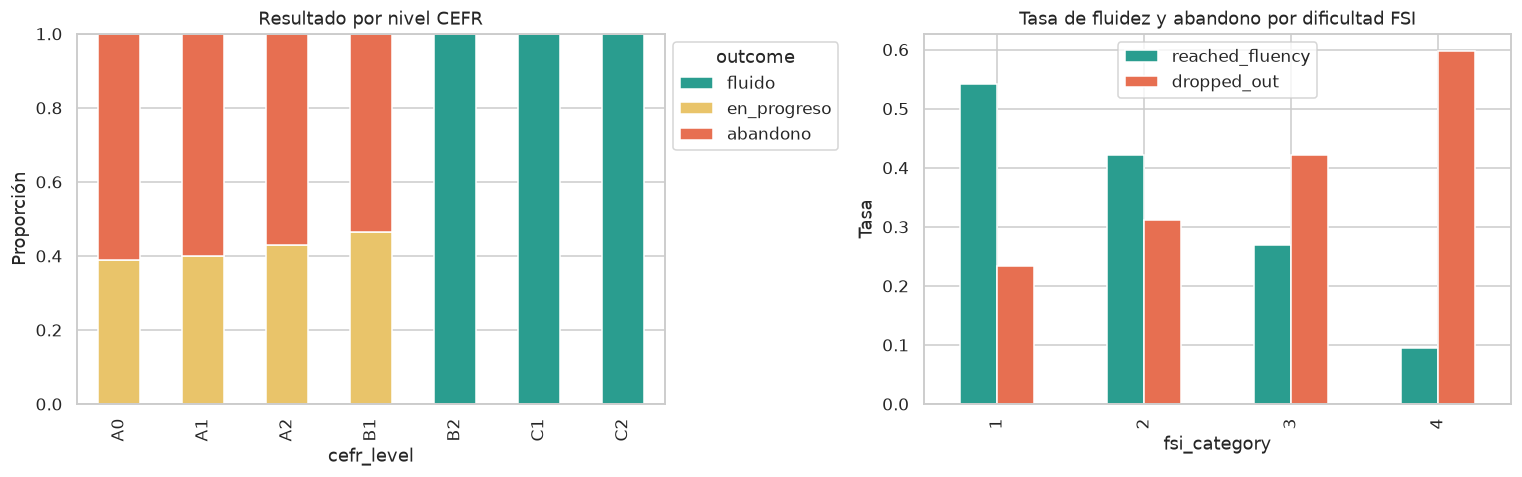
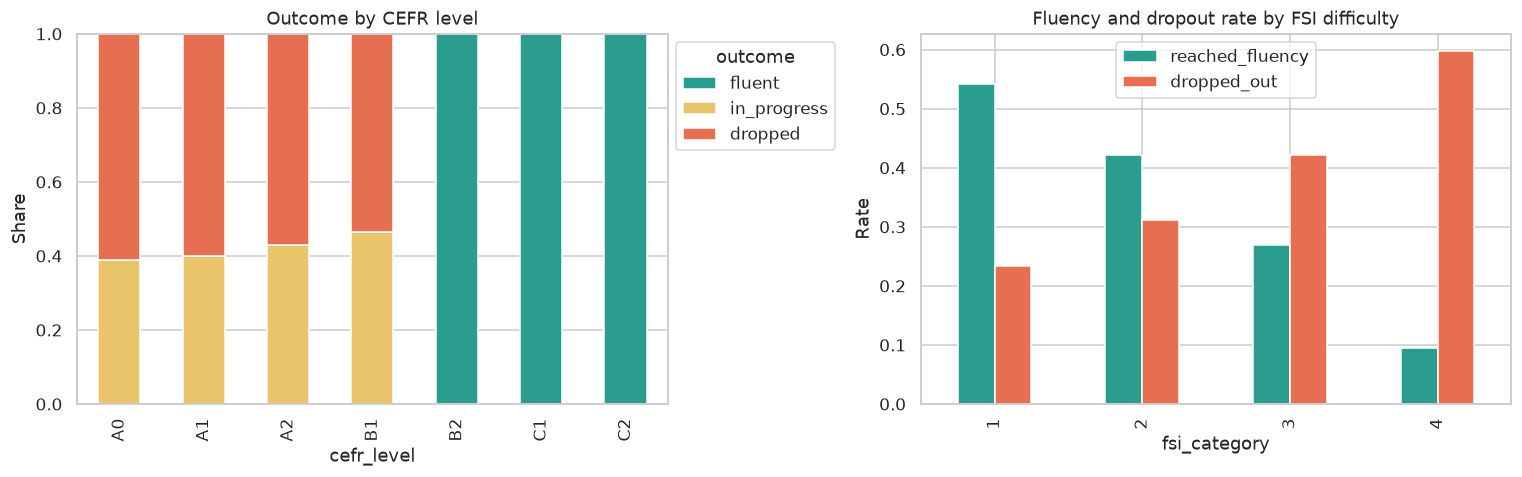
Translate figure titles, axes and legends to English
Regenerate all 13 figures and the outcome table with English labels.

diff --git a/eda_language_learning.py b/eda_language_learning.py
@@ -133,7 +133,7 @@ print(f"IDs duplicados: {df[ID_COL].duplicated().sum()}")
 
 plt.figure(figsize=(10, 4))
 sns.heatmap(df.isna().T, cbar=False, cmap="viridis", yticklabels=True, xticklabels=False)
-plt.title("Mapa de valores faltantes (amarillo = faltante)")
+plt.title("Missing values map (yellow = missing)")
 save_fig("01_mapa_faltantes")
 
 # Rangos esperados según el diccionario de datos
@@ -207,7 +207,7 @@ for ax, col in zip(axes.flat, numeric_cols):
     ax.set_xlabel("")
 for ax in axes.flat[n:]:
     ax.set_visible(False)
-fig.suptitle("Distribución de variables numéricas", y=1.01, fontsize=14)
+fig.suptitle("Distribution of numeric variables", y=1.01, fontsize=14)
 plt.tight_layout()
 save_fig("02_histogramas_numericas")
 
@@ -218,7 +218,7 @@ for ax, col in zip(axes.flat, numeric_cols):
     ax.set_xlabel("")
 for ax in axes.flat[n:]:
     ax.set_visible(False)
-fig.suptitle("Boxplots (detección de outliers)", y=1.01, fontsize=14)
+fig.suptitle("Boxplots (outlier detection)", y=1.01, fontsize=14)
 plt.tight_layout()
 save_fig("03_boxplots_numericas")
 
@@ -249,23 +249,23 @@ print(ct)
 # Resultado combinado en 3 clases (más interpretable que dos binarias)
 df["outcome"] = np.select(
     [df["reached_fluency"] == 1, df["dropped_out"] == 1],
-    ["fluido", "abandono"],
-    default="en_progreso",
+    ["fluent", "dropped"],
+    default="in_progress",
 )
 print("\nResultado combinado:")
 print(df["outcome"].value_counts(normalize=True).round(3))
 
 fig, axes = plt.subplots(1, 2, figsize=(14, 4.5))
 cefr_outcome = pd.crosstab(df["cefr_level"], df["outcome"], normalize="index").reindex(CEFR_ORDER)
-cefr_outcome[["fluido", "en_progreso", "abandono"]].plot(
+cefr_outcome[["fluent", "in_progress", "dropped"]].plot(
     kind="bar", stacked=True, ax=axes[0], color=["#2a9d8f", "#e9c46a", "#e76f51"])
-axes[0].set_title("Resultado por nivel CEFR")
-axes[0].set_ylabel("Proporción")
+axes[0].set_title("Outcome by CEFR level")
+axes[0].set_ylabel("Share")
 axes[0].legend(title="outcome", bbox_to_anchor=(1, 1))
 fsi_rates = df.groupby("fsi_category")[TARGETS].mean()
 fsi_rates.plot(kind="bar", ax=axes[1], color=["#2a9d8f", "#e76f51"])
-axes[1].set_title("Tasa de fluidez y abandono por dificultad FSI")
-axes[1].set_ylabel("Tasa")
+axes[1].set_title("Fluency and dropout rate by FSI difficulty")
+axes[1].set_ylabel("Rate")
 plt.tight_layout()
 save_fig("05_objetivos")
 
@@ -281,7 +281,7 @@ plt.figure(figsize=(13, 11))
 mask = np.triu(np.ones_like(corr, dtype=bool), k=1)
 sns.heatmap(corr, mask=mask, annot=True, fmt=".2f", cmap="RdBu_r", center=0,
             vmin=-1, vmax=1, annot_kws={"size": 7}, linewidths=0.4)
-plt.title("Matriz de correlación (Spearman)")
+plt.title("Correlation matrix (Spearman)")
 save_fig("06_matriz_correlacion")
 
 target_corr = corr[TARGETS + ["cefr_ordinal"]].drop(TARGETS + ["cefr_ordinal"])
@@ -304,7 +304,7 @@ for ax, target in zip(axes, TARGETS):
     colors = ["#2a9d8f" if v > 0 else "#e76f51" for v in s]
     ax.barh(s.index, s.values, color=colors)
     ax.axvline(0, color="black", lw=0.8)
-    ax.set_title(f"Correlación con {target}")
+    ax.set_title(f"Correlation with {target}")
 axes[0].invert_yaxis()
 plt.tight_layout()
 save_fig("07_correlacion_objetivos")
@@ -318,9 +318,9 @@ key_numeric = ["total_study_hours", "comprehensible_input_hours", "active_use_sh
 
 fig, axes = plt.subplots(2, 3, figsize=(16, 8))
 for ax, col in zip(axes.flat, key_numeric):
-    sns.boxplot(data=df, x="outcome", y=col, order=["abandono", "en_progreso", "fluido"],
-                hue="outcome", palette={"fluido": "#2a9d8f", "en_progreso": "#e9c46a",
-                                        "abandono": "#e76f51"},
+    sns.boxplot(data=df, x="outcome", y=col, order=["dropped", "in_progress", "fluent"],
+                hue="outcome", palette={"fluent": "#2a9d8f", "in_progress": "#e9c46a",
+                                        "dropped": "#e76f51"},
                 legend=False, ax=ax, fliersize=1)
     ax.set_title(col)
     ax.set_xlabel("")
@@ -340,16 +340,16 @@ plt.figure(figsize=(10, 5))
 for fsi in pivot.columns:
     plt.plot(range(len(pivot)), pivot[fsi], marker="o", label=f"FSI {fsi}")
 plt.xticks(range(len(pivot)), [str(i) for i in pivot.index], rotation=45, ha="right")
-plt.ylabel("Tasa de fluidez (>= B2)")
-plt.xlabel("Deciles de total_study_hours")
-plt.title("Fluidez vs horas de estudio según dificultad del idioma")
+plt.ylabel("Fluency rate (>= B2)")
+plt.xlabel("total_study_hours deciles")
+plt.title("Fluency vs study hours by language difficulty")
 plt.legend()
 save_fig("09_fluidez_horas_fsi")
 print("\nTasa de fluidez por decil de horas x FSI:")
 print(pivot.round(2))
 
 # Efecto de la calidad del estudio: active_use_share en cuartiles
-df["active_q"] = pd.qcut(df["active_use_share"], 4, labels=["Q1 bajo", "Q2", "Q3", "Q4 alto"])
+df["active_q"] = pd.qcut(df["active_use_share"], 4, labels=["Q1 low", "Q2", "Q3", "Q4 high"])
 pivot_active = df.pivot_table(index="horas_bin", columns="active_q",
                               values="reached_fluency", aggfunc="mean", observed=True)
 plt.figure(figsize=(10, 5))
@@ -358,9 +358,9 @@ for q in pivot_active.columns:
 plt.xticks(range(len(pivot_active)), [str(i) for i in pivot_active.index],
            rotation=45, ha="right")
 plt.legend(title="active_use_share")
-plt.title("Fluidez vs horas de estudio según cuartil de uso activo")
-plt.ylabel("Tasa de fluidez")
-plt.xlabel("Deciles de total_study_hours")
+plt.title("Fluency vs study hours by active-use quartile")
+plt.ylabel("Fluency rate")
+plt.xlabel("total_study_hours deciles")
 save_fig("10_fluidez_horas_uso_activo")
 
 # Abandono vs motivación y consistencia
@@ -371,7 +371,7 @@ for ax, col in zip(axes, ["motivation", "consistency"]):
     ax.plot(range(len(rate)), rate.values, marker="o", color="#e76f51")
     ax.set_xticks(range(len(rate)))
     ax.set_xticklabels([f"{i.mid:.1f}" for i in rate.index])
-    ax.set_title(f"Tasa de abandono vs {col}")
+    ax.set_title(f"Dropout rate vs {col}")
     ax.set_ylabel("dropped_out")
 plt.tight_layout()
 save_fig("11_abandono_motivacion_consistencia")
@@ -388,11 +388,11 @@ ax1.set_ylabel("accent_nativelike (0-10)")
 ax2 = ax1.twinx()
 ax2.plot(age_eff.index.astype(str), age_eff["reached_fluency"], marker="s", color="#2a9d8f",
          label="reached_fluency")
-ax2.set_ylabel("Tasa de fluidez")
+ax2.set_ylabel("Fluency rate")
 ax2.set_ylim(0, 1)
 ax2.grid(False)
 fig.legend(loc="upper right", bbox_to_anchor=(0.9, 0.88))
-plt.title("Edad de inicio: acento vs fluidez")
+plt.title("Starting age: accent vs fluency")
 save_fig("12_edad_acento_fluidez")
 
 # ---------------------------------------------------------------------------
@@ -439,8 +439,8 @@ fig, axes = plt.subplots(1, 2, figsize=(15, 6))
 for ax, target in zip(axes, TARGETS):
     imp = importance[target].sort_values("permutation_auc")
     ax.barh(imp.index, imp["permutation_auc"], color="#264653")
-    ax.set_title(f"Importancia por permutación (caída de AUC)\nobjetivo: {target}")
-    ax.set_xlabel("Disminución media de ROC-AUC")
+    ax.set_title(f"Permutation importance (AUC drop)\ntarget: {target}")
+    ax.set_xlabel("Mean decrease in ROC-AUC")
 plt.tight_layout()
 save_fig("13_importancia_variables")
 
@@ -454,7 +454,7 @@ print(f"- {df.shape[0]:,} registros, {df.shape[1] - 5} columnas originales, "
       f"{int(df[feature_cols].isna().sum().sum())} valores faltantes, 0 duplicados.")
 print(f"- Fluidez alcanzada: {df['reached_fluency'].mean():.1%} | "
       f"Abandono: {df['dropped_out'].mean():.1%} | "
-      f"En progreso: {(df['outcome'] == 'en_progreso').mean():.1%}")
+      f"En progreso: {(df['outcome'] == 'in_progress').mean():.1%}")
 print(f"- Top 5 variables para reached_fluency: {top_fluency}")
 print(f"- Top 5 variables para dropped_out:     {top_dropout}")
 print("- cefr_level determina reached_fluency (>=B2): no usar como predictor.")
